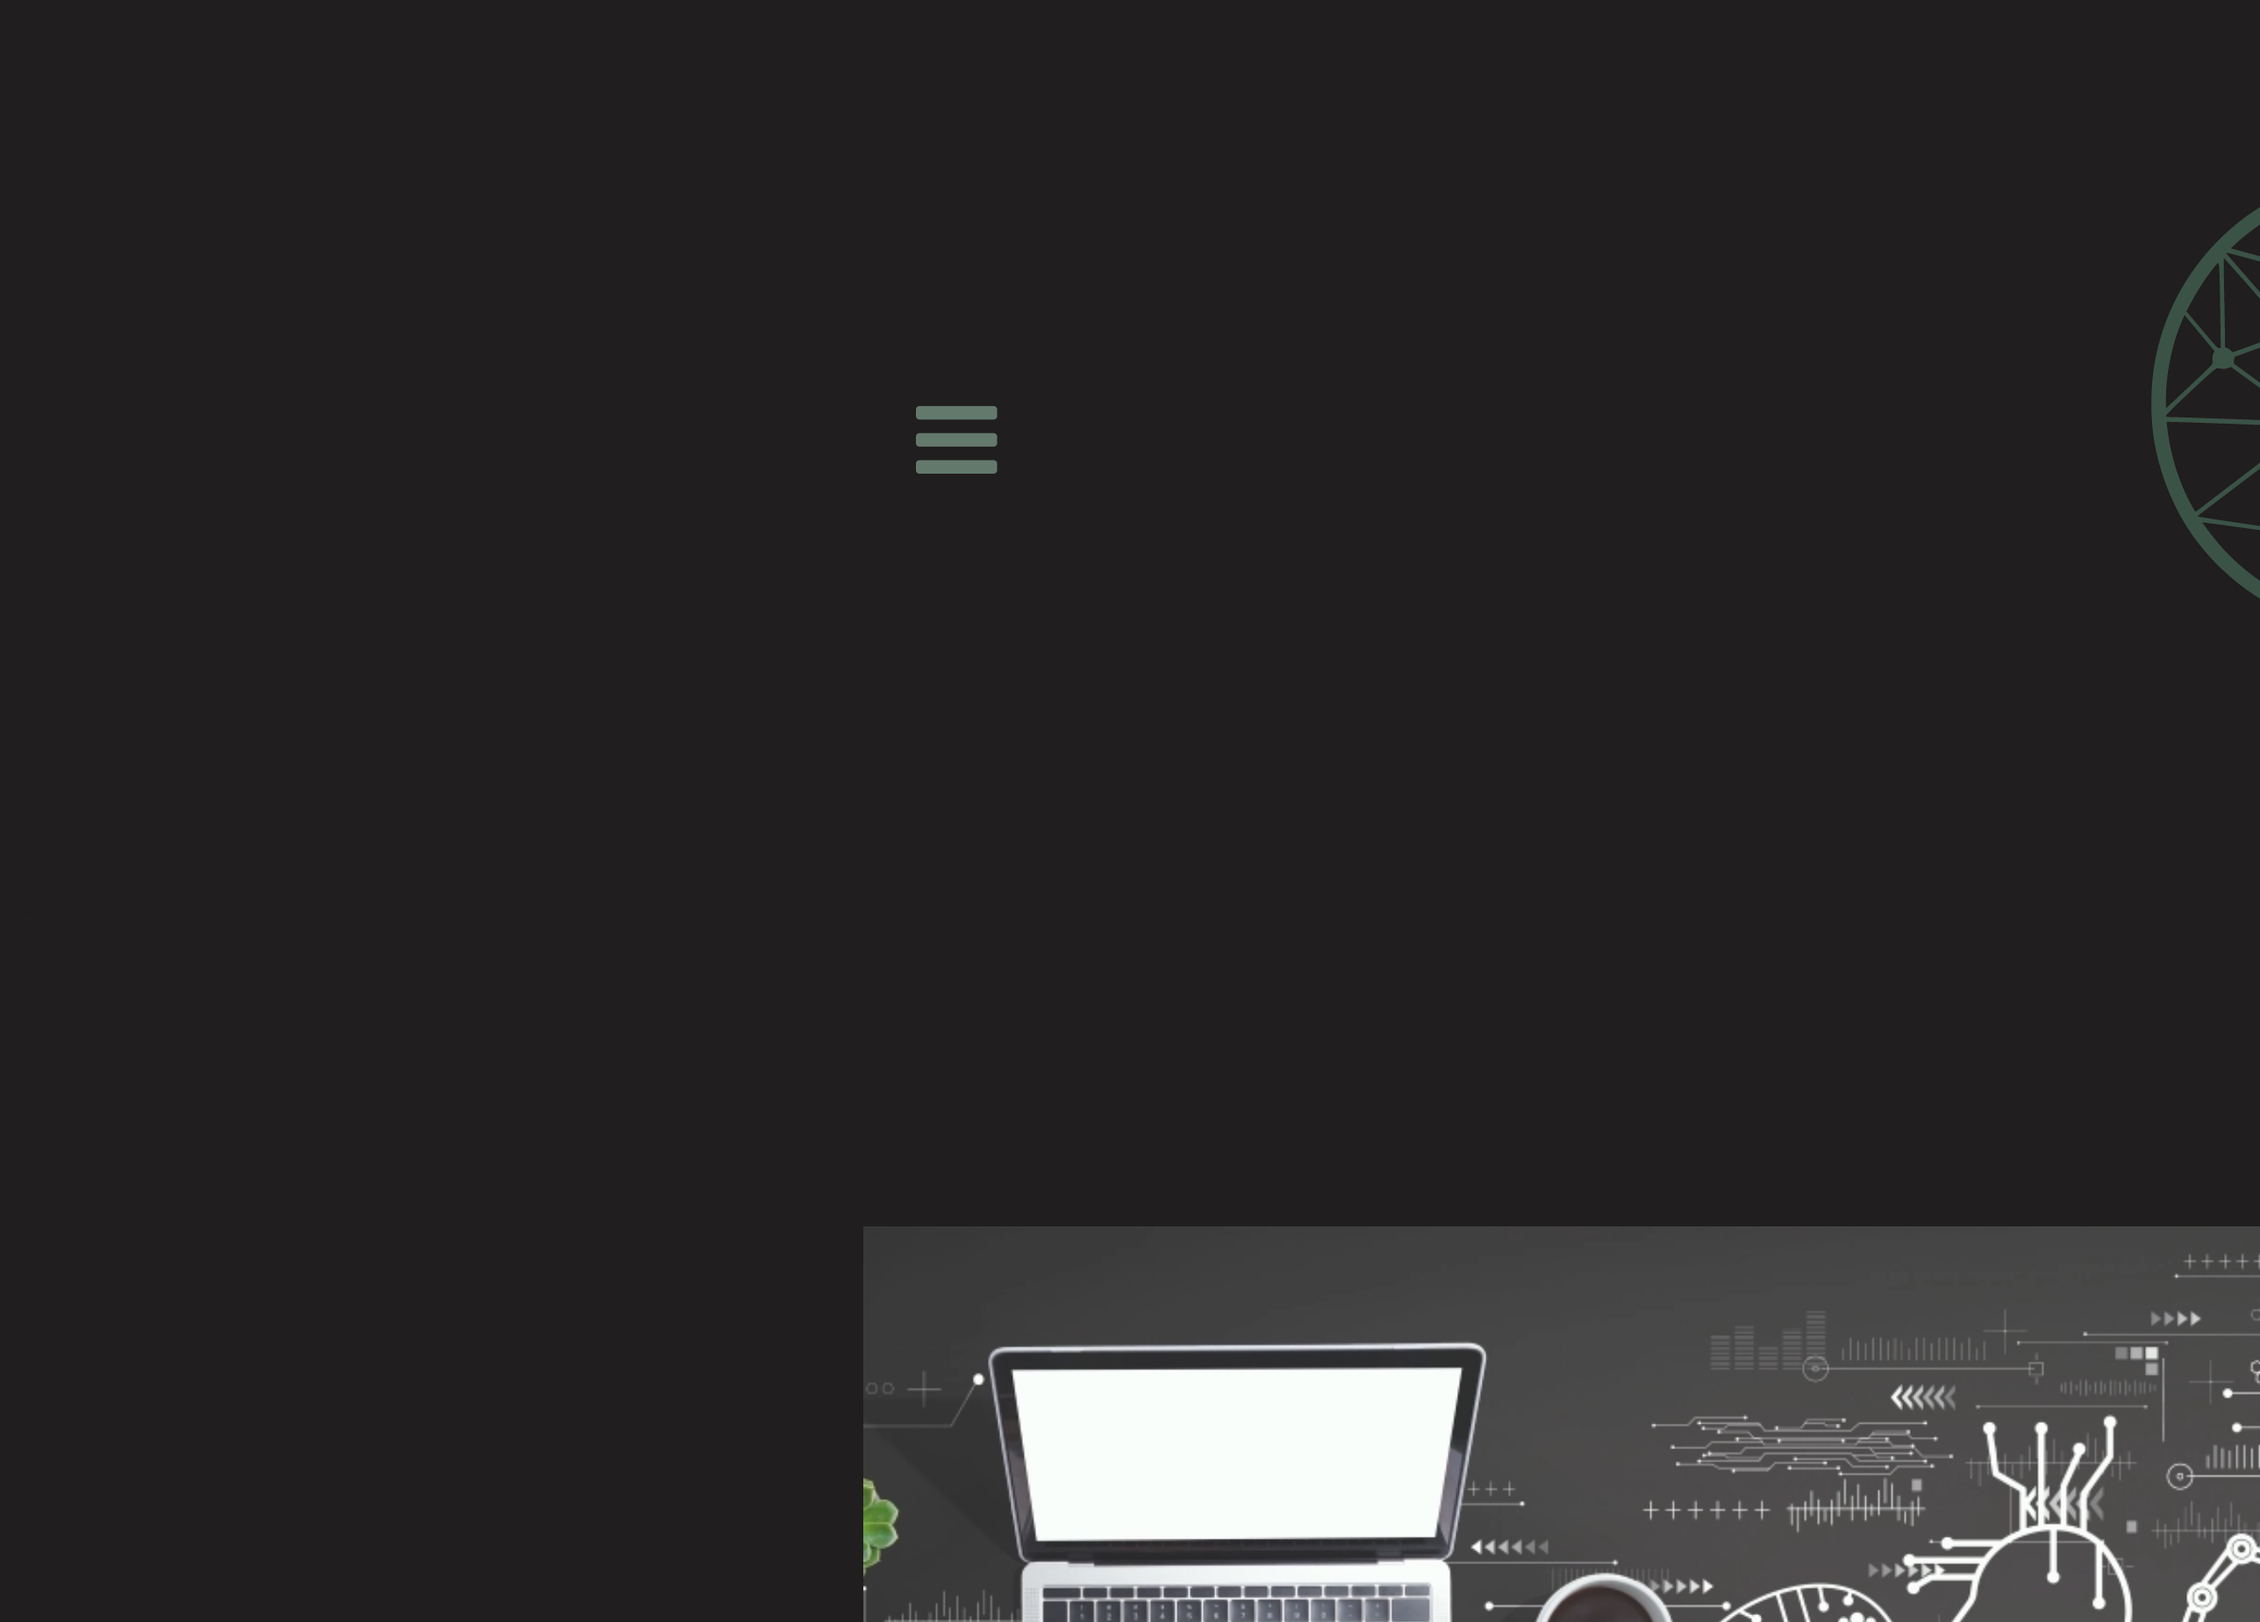
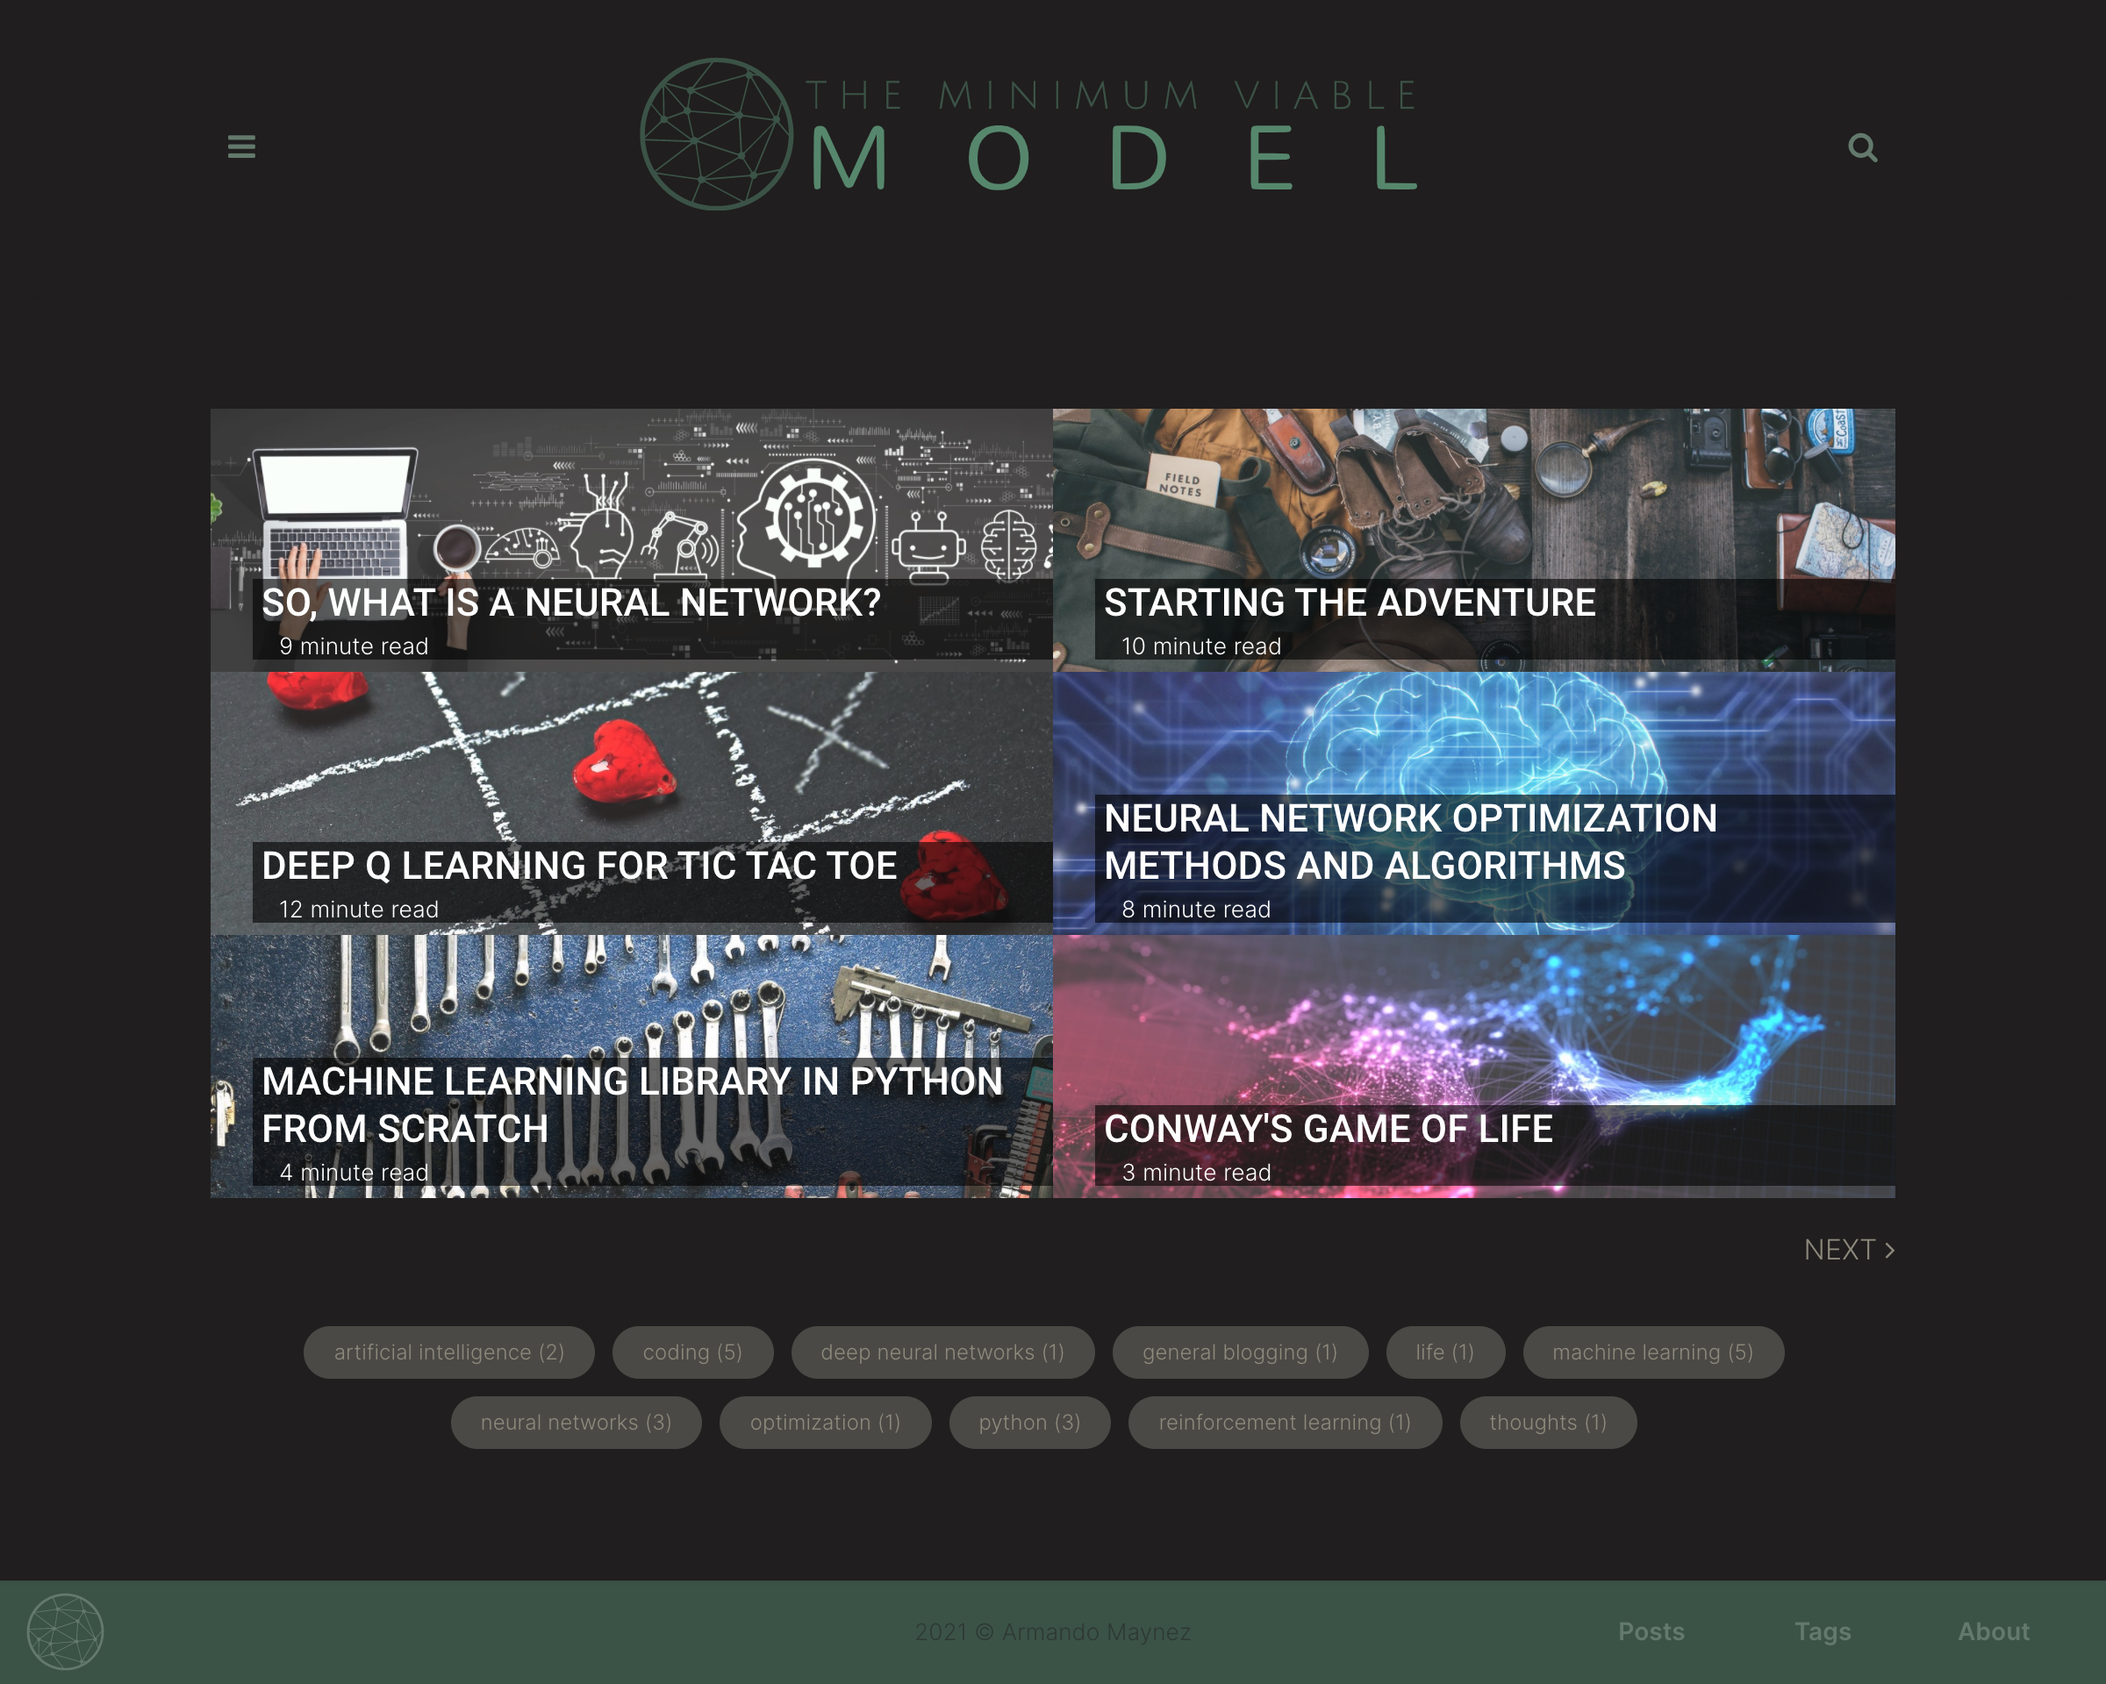
readme updated with dark theme

diff --git a/README.md b/README.md
@@ -5,6 +5,7 @@ demo site now [mirrored](https://weathered-bread-8229.on.fleek.co/) in [IPFS](ht
 
 ## Additional features in v2.0:
 - SEO meta tags
+- Dark mode ([configurable in _config.yml file](https://github.com/the-mvm/the-mvm.github.io/blob/a8d4f781bfbc4107b4842433701d28f5bbf1c520/_config.yml#L10))
 - automatic [sitemap.xml](http://the-mvm.github.io/sitemap.xml)
 - automatic [archive page](http://the-mvm.github.io/archive/) with infinite scrolling capability
 - [new page](https://the-mvm.github.io/tag/?tag=Coding) of posts filtered by a single tag (without needing autopages from paginator V2), also with infinite scrolling
@@ -48,6 +49,12 @@ The post page looks like:
 Custom responsive 404:
 
 <img width="640px" src="https://github.com/the-mvm/the-mvm.github.io/blob/main/assets/img/template_screenshots/404-responsive.jpg?raw=true">
+
+Dark mode looks like this:
+![Homepage Dark](https://github.com/the-mvm/the-mvm.github.io/blob/main/assets/img/template_screenshots/homepage-dark.png?raw=true)
+
+![post page dark](https://github.com/the-mvm/the-mvm.github.io/blob/main/assets/img/template_screenshots/post-dark.png?raw=true)
+![post bottom dark](https://github.com/the-mvm/the-mvm.github.io/blob/main/assets/img/template_screenshots/post_bottom-dark.png?raw=true)
 
 ## Installation:
 
